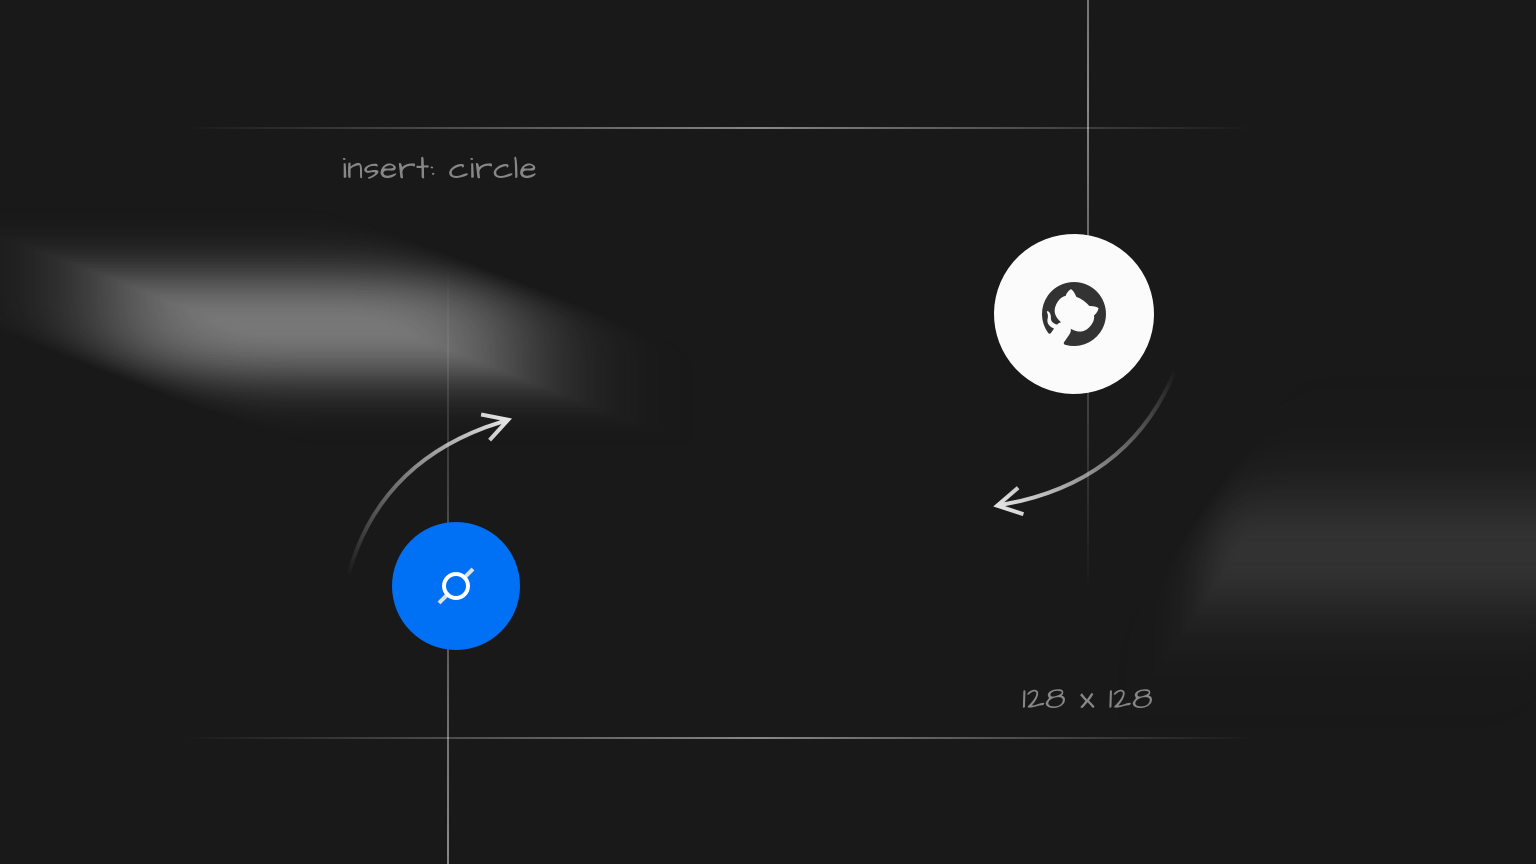
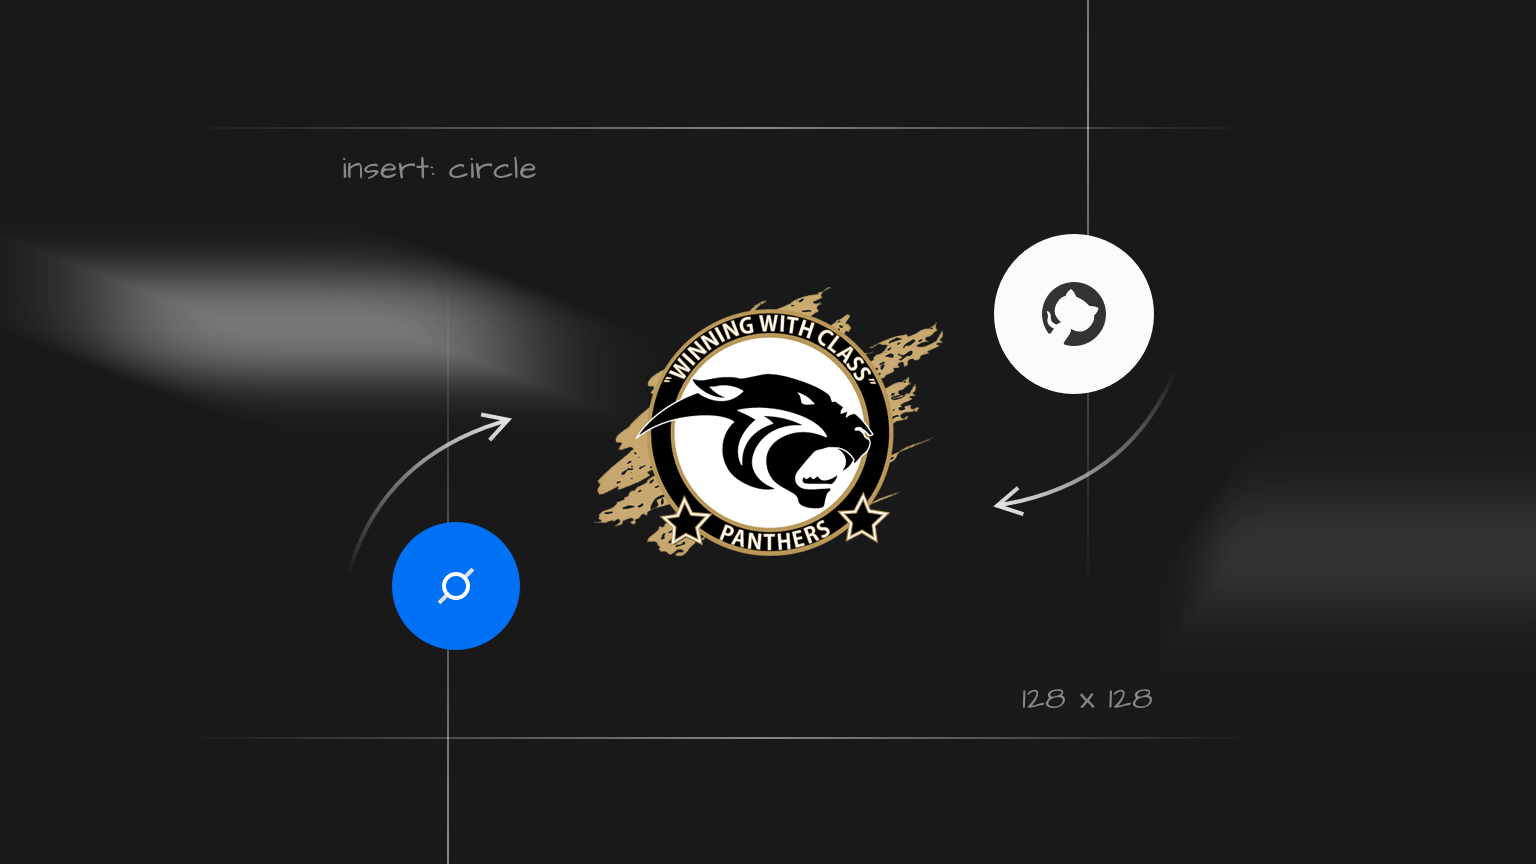
image update

Changed region(s): [[0.375, 0.3438, 0.625, 0.6562]]

diff --git a/src/partials/HeroHome.jsx b/src/partials/HeroHome.jsx
@@ -1,5 +1,7 @@
 import React, { useState } from 'react';
 import Modal from '../utils/Modal';
+import { Link } from 'react-router-dom';
+
 
 import HeroImage from '../images/hero-image.png';
 
@@ -34,15 +36,15 @@ function HeroHome() {
 
           {/* Section header */}
           <div className="text-center pb-12 md:pb-16">
-            <h1 className="text-5xl md:text-6xl font-extrabold leading-tighter tracking-tighter mb-4" data-aos="zoom-y-out">Make your website <span className="bg-clip-text text-transparent bg-gradient-to-r from-blue-500 to-teal-400">wonderful</span></h1>
+            <h1 className="text-5xl md:text-6xl font-extrabold leading-tighter tracking-tighter mb-4" data-aos="zoom-y-out">We are Team 12926 <span className="bg-clip-text text-transparent bg-gradient-to-r from-black to-yellow-300">Panther Robotics</span></h1>
             <div className="max-w-3xl mx-auto">
               <p className="text-xl text-gray-600 mb-8" data-aos="zoom-y-out" data-aos-delay="150">Our landing page template works on all devices, so you only have to set it up once, and get beautiful results forever.</p>
               <div className="max-w-xs mx-auto sm:max-w-none sm:flex sm:justify-center" data-aos="zoom-y-out" data-aos-delay="300">
                 <div>
-                  <a className="btn text-white bg-blue-600 hover:bg-blue-700 w-full mb-4 sm:w-auto sm:mb-0" href="#0">Start free trial</a>
+                  <a className="btn text-white bg-yellow-600 hover:bg-blue-700 w-full mb-4 sm:w-auto sm:mb-0" href="#0">More About Us!</a>
                 </div>
                 <div>
-                  <a className="btn text-white bg-gray-900 hover:bg-gray-800 w-full sm:w-auto sm:ml-4" href="#0">Learn more</a>
+                  <Link to="/" className="btn text-white bg-gray-900 hover:bg-gray-800 w-full sm:w-auto sm:ml-4" >Our Outreach</Link>
                 </div>
               </div>
             </div>
@@ -53,41 +55,13 @@ function HeroHome() {
             <div className="relative flex justify-center mb-8" data-aos="zoom-y-out" data-aos-delay="450">
               <div className="flex flex-col justify-center">
                 <img className="mx-auto" src={HeroImage} width="768" height="432" alt="Hero" />
-                <svg className="absolute inset-0 max-w-full mx-auto md:max-w-none h-auto" width="768" height="432" viewBox="0 0 768 432" xmlns="http://www.w3.org/2000/svg" xmlnsXlink="http://www.w3.org/1999/xlink">
-                  <defs>
-                    <linearGradient x1="50%" y1="0%" x2="50%" y2="100%" id="hero-ill-a">
-                      <stop stopColor="#FFF" offset="0%" />
-                      <stop stopColor="#EAEAEA" offset="77.402%" />
-                      <stop stopColor="#DFDFDF" offset="100%" />
-                    </linearGradient>
-                    <linearGradient x1="50%" y1="0%" x2="50%" y2="99.24%" id="hero-ill-b">
-                      <stop stopColor="#FFF" offset="0%" />
-                      <stop stopColor="#EAEAEA" offset="48.57%" />
-                      <stop stopColor="#DFDFDF" stopOpacity="0" offset="100%" />
-                    </linearGradient>
-                    <radialGradient cx="21.152%" cy="86.063%" fx="21.152%" fy="86.063%" r="79.941%" id="hero-ill-e">
-                      <stop stopColor="#4FD1C5" offset="0%" />
-                      <stop stopColor="#81E6D9" offset="25.871%" />
-                      <stop stopColor="#338CF5" offset="100%" />
-                    </radialGradient>
-                    <circle id="hero-ill-d" cx="384" cy="216" r="64" />
-                  </defs>
-                  <g fill="none" fillRule="evenodd">
-                    <circle fillOpacity=".04" fill="url(#hero-ill-a)" cx="384" cy="216" r="128" />
-                    <circle fillOpacity=".16" fill="url(#hero-ill-b)" cx="384" cy="216" r="96" />
-                    <g fillRule="nonzero">
-                      <use fill="#000" xlinkHref="#hero-ill-d" />
-                      <use fill="url(#hero-ill-e)" xlinkHref="#hero-ill-d" />
-                    </g>
-                  </g>
-                </svg>
               </div>
               <button className="absolute top-full flex items-center transform -translate-y-1/2 bg-white rounded-full font-medium group p-4 shadow-lg" onClick={(e) => { e.preventDefault(); e.stopPropagation(); setVideoModalOpen(true); }} aria-controls="modal">
                 <svg className="w-6 h-6 fill-current text-gray-400 group-hover:text-blue-600 flex-shrink-0" viewBox="0 0 24 24" xmlns="http://www.w3.org/2000/svg">
                   <path d="M12 22c5.523 0 10-4.477 10-10S17.523 2 12 2 2 6.477 2 12s4.477 10 10 10zm0 2C5.373 24 0 18.627 0 12S5.373 0 12 0s12 5.373 12 12-5.373 12-12 12z" />
                   <path d="M10 17l6-5-6-5z" />
                 </svg>
-                <span className="ml-3">Watch the full video (2 min)</span>
+                <span className="ml-3">Watch Our Team Video (2 min)</span>
               </button>
             </div>
 

diff --git a/src/pages/Home.jsx b/src/pages/Home.jsx
@@ -25,8 +25,7 @@ function Home() {
         <FeaturesBlocks />
         <Testimonials />
       </main>
-      {/*  Site footer */}
-      <Footer />
+
 
     </div>
   );
